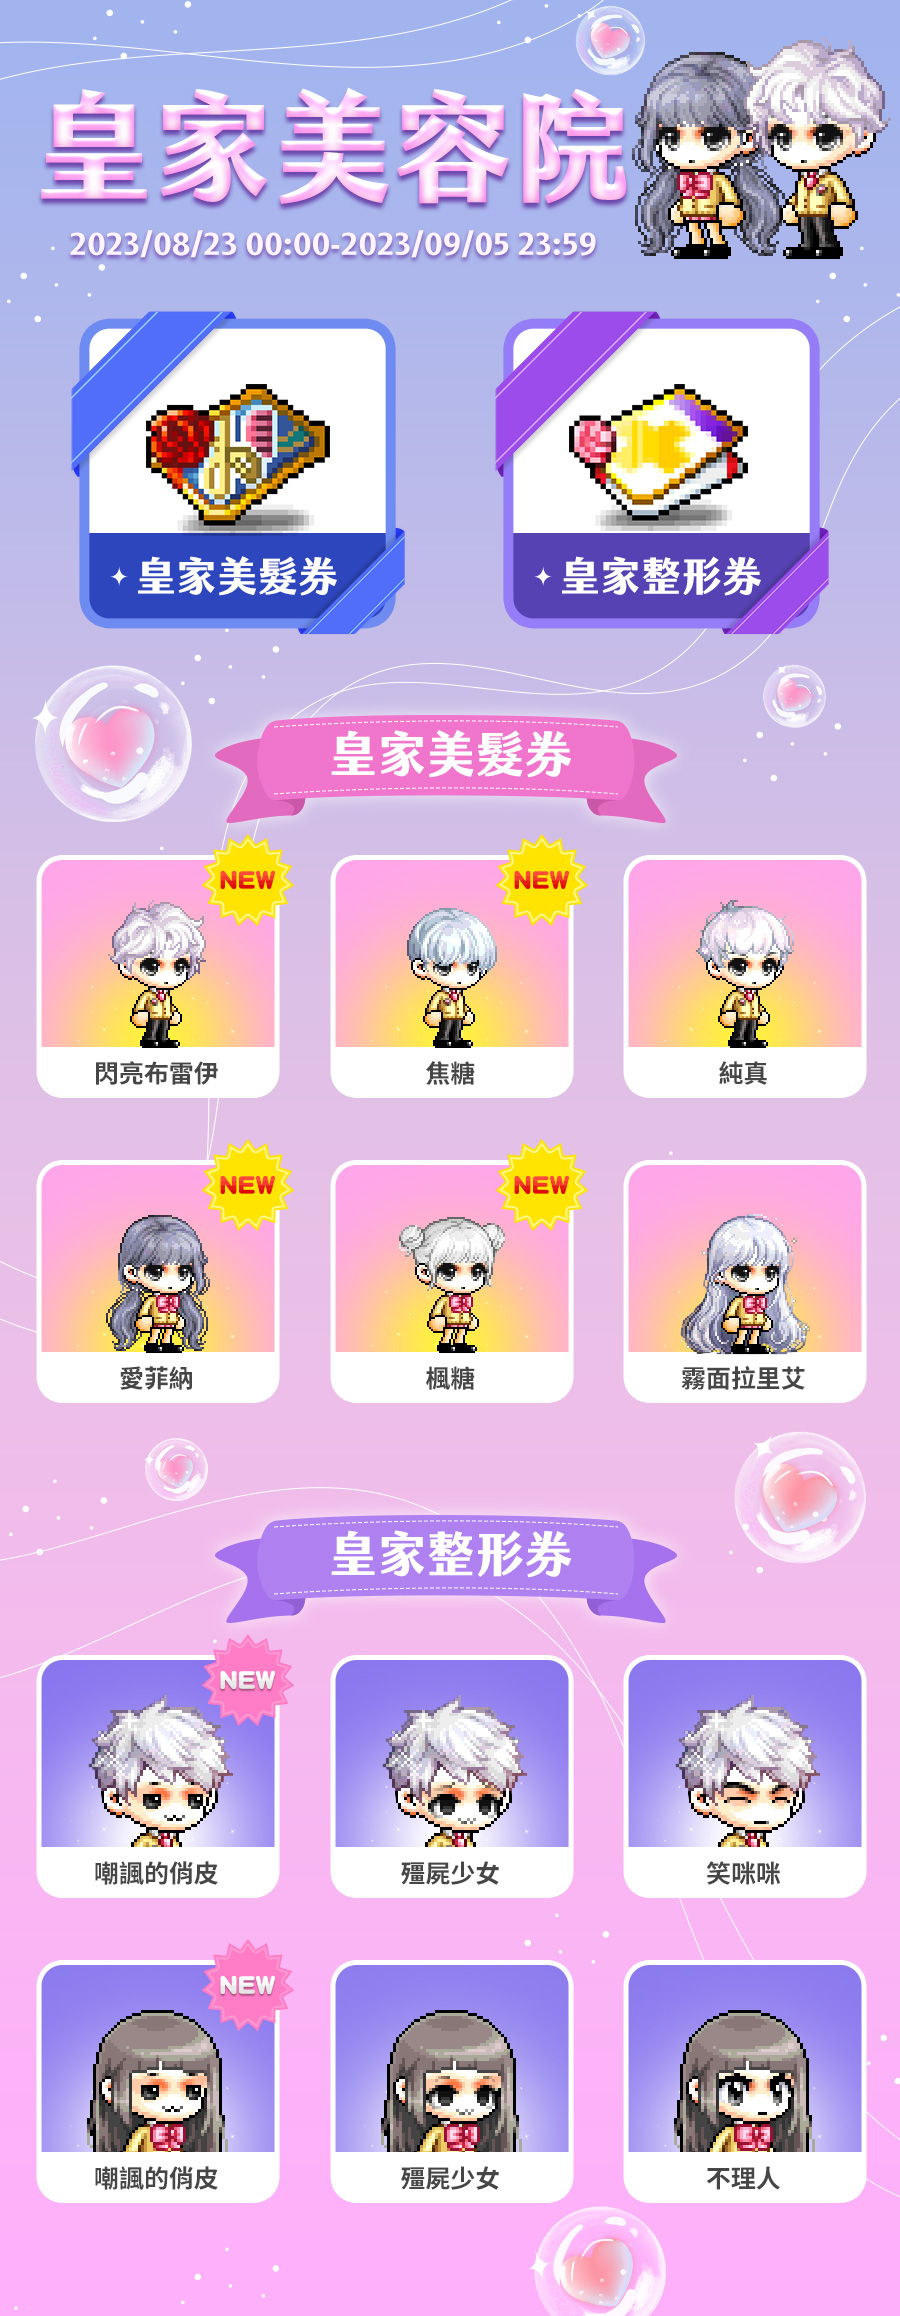
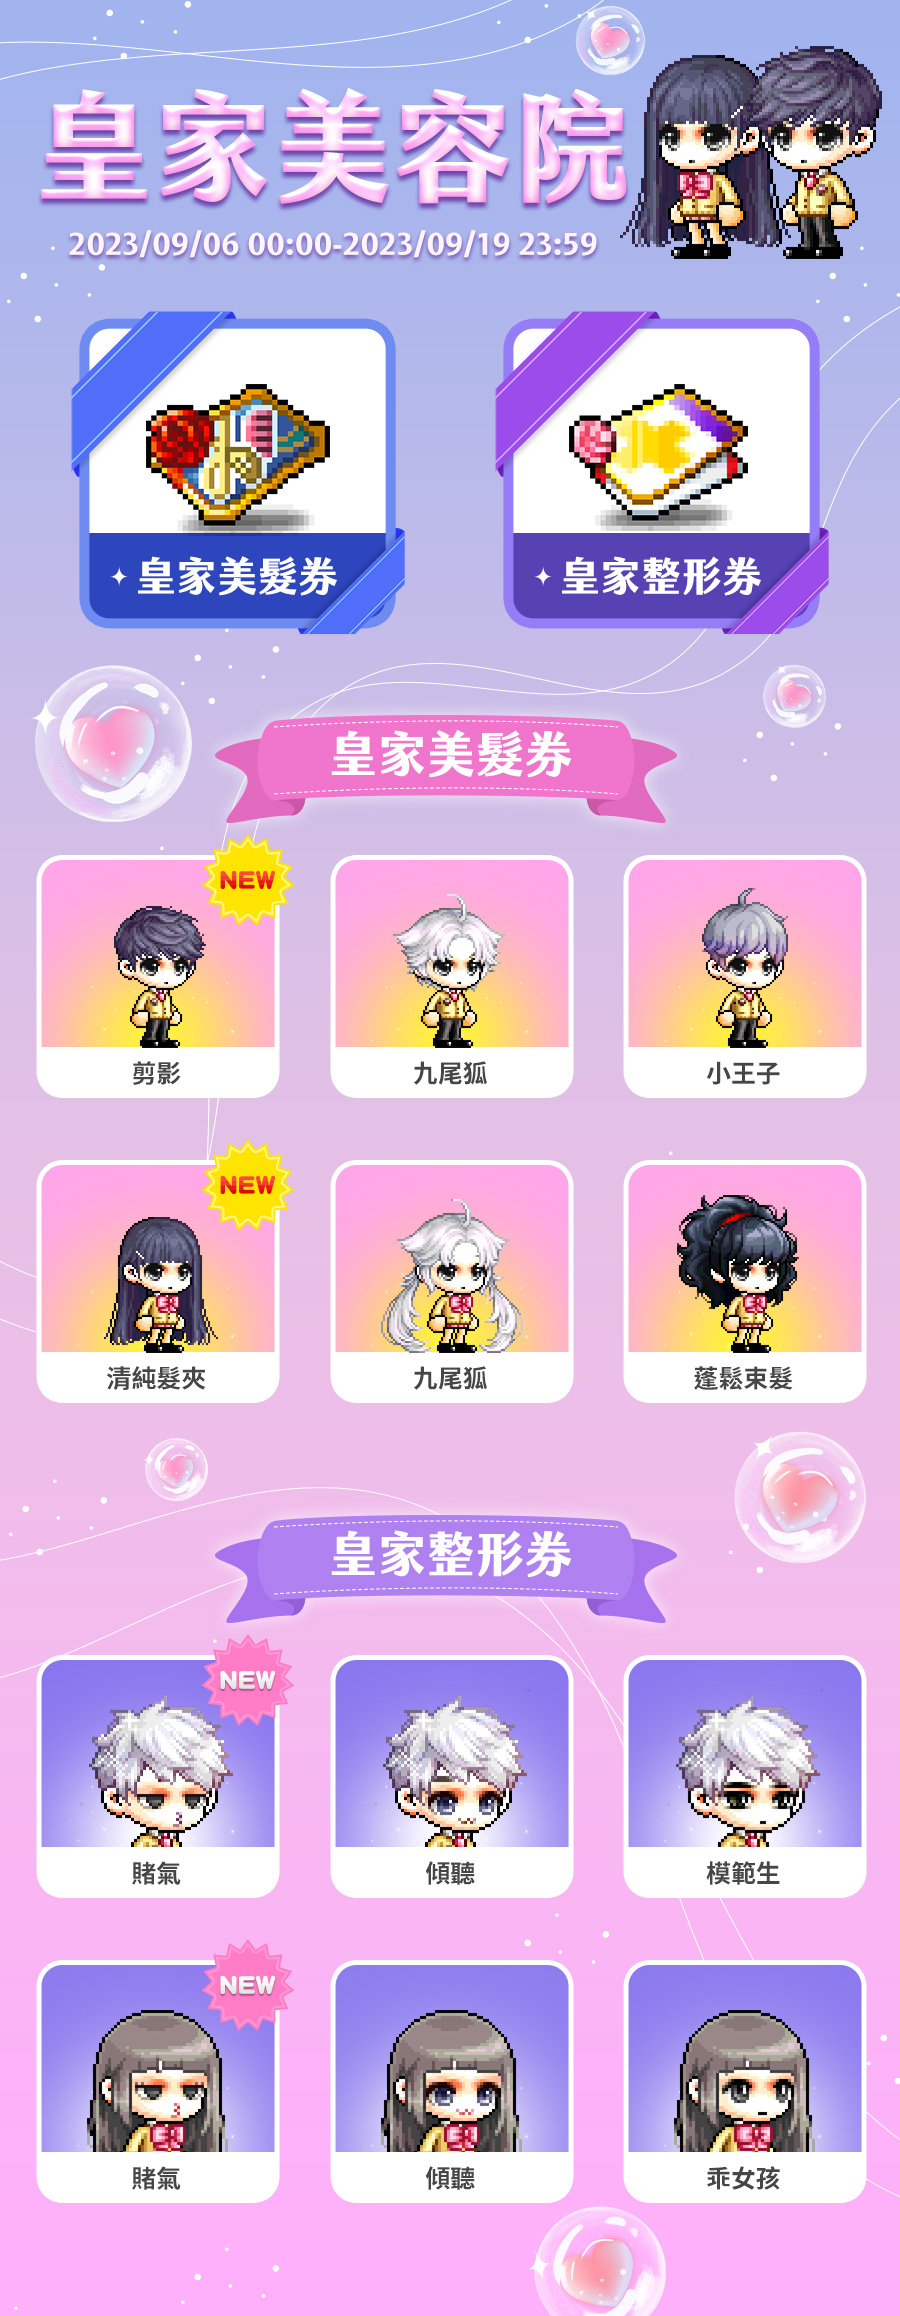
9/6 tms活動更新

diff --git a/src/components/MapleActivity/dressing.vue b/src/components/MapleActivity/dressing.vue
@@ -19,24 +19,60 @@ export default {
     <ul>
         <h1 class="dressingTitle">男生</h1>
         <li class="itemTitle"><span>主打美髮</span><span>機率</span></li>
-        <li><span>閃亮布雷伊髮型</span><span>1.00%</span></li>
-        <li><span>焦糖造型</span><span>1.00%</span></li>
-        <li><span>純真造型</span><span>1.00%</span></li>
+        <li><span>剪影髮型</span><span>1.50%</span></li>
+        <li><span>九尾狐髮型</span><span>1.50%</span></li>
+        <li><span>小王子髮型</span><span>6.00%</span></li>
+<li><span>黑色泡泡髮型</span><span>	6.00%</span></li>
+<li><span>黑色菁英西裝頭</span><span>	6.00%</span></li>
+<li><span>黑色潤澤耀眼造型</span><span>	6.00%</span></li>
+<li><span>黑色飛翹年輕造型</span><span>	6.00%</span></li>
+<li><span>黑色層次銀羽造型	</span><span>13.40%</span></li>
+<li><span>黑色泰斯造型	</span><span>13.40%</span></li>
+<li><span>黑色浪子小捲造型	</span><span>13.40%</span></li>
+<li><span>黑色蘋果小紮造型	</span><span>13.40%</span></li>
+<li><span>黑色狂野奔放造型	</span><span>13.40%</span></li>
         <li class="itemTitle"><span>主打整形</span><span>機率</span></li>
-        <li><span>嘲諷的俏皮臉型</span><span>2.50%</span></li>
-        <li><span>殭屍少女臉型	</span><span>2.50%</span></li>
-        <li><span>笑咪咪臉型</span><span>9.50%</span></li>                                
+<li><span>賭氣的臉型	</span><span>2.50%</span></li>
+<li><span>傾聽的臉型(黑色瞳)	</span><span>2.50%</span></li>
+<li><span>黑色模範生臉型	</span><span>9.50%</span></li>
+<li><span>黑色聰明的臉型	</span><span>9.50%</span></li>
+<li><span>黑色溫順的臉型	</span><span>9.50%</span></li>
+<li><span>黑色閃星光臉型	</span><span>9.50%</span></li>
+<li><span>黑色張望的臉型	</span><span>9.50%</span></li>
+<li><span>黑色染眉毛臉型	</span><span>9.50%</span></li>
+<li><span>黑色野心家臉型	</span><span>9.50%</span></li>
+<li><span>黑色勾魂眼臉型	</span><span>9.50%</span></li>
+<li><span>黑色很憂慮臉型	</span><span>9.50%</span></li>
+<li><span>黑色暗笑的臉型	</span><span>9.50%</span></li>
     </ul>
     <ul>
         <h1 class="dressingTitle">女生</h1>
         <li class="itemTitle"><span>主打美髮</span><span>機率</span></li>
-        <li><span>愛菲納髮型</span><span>1.00%</span></li>
-        <li><span>楓糖髮型</span><span>1.00%</span></li>
-        <li><span>霧面拉里艾髮型</span><span>1.00%</span></li>
+<li><span>黑色清純髮夾造型</span><span>	1.50%</span></li>
+<li><span>黑色九尾狐髮型</span><span>	1.50%</span></li>
+<li><span>黑色蓬鬆束髮造型</span><span>	6.00%</span></li>
+<li><span>黑色小櫻造型</span><span>	6.00%</span></li>
+<li><span>黑色繆斯女神造型</span><span>	6.00%</span></li>
+<li><span>黑色捲燙髮結造型</span><span>	6.00%</span></li>
+<li><span>黑色裴黎爾造型</span><span>	6.00%</span></li>
+<li><span>黑色幻影造型	</span><span>13.40%</span></li>
+<li><span>黑色波希米亞造型	</span><span>13.40%</span></li>
+<li><span>黑色濃密瀏海造型	</span><span>13.40%</span></li>
+<li><span>黑色俏麗輕盈造型	</span><span>13.40%</span></li>
+<li><span>黑色露娜造型	</span><span>13.40%</span></li>
         <li class="itemTitle"><span>主打整形</span><span>機率</span></li>
-        <li><span>嘲諷的俏皮臉型</span><span>2.50%</span></li>
-        <li><span>殭屍少女臉型</span><span>2.50%</span></li>
-        <li><span>不理人臉型</span><span>9.50%</span></li>   
+<li><span>賭氣的臉型	</span><span>2.50%</span></li>
+<li><span>傾聽的臉型(黑色瞳)	</span><span>2.50%</span></li>
+<li><span>黑色乖女孩臉型	</span><span>9.50%</span></li>
+<li><span>黑色扁嘴的臉型	</span><span>9.50%</span></li>
+<li><span>黑色寧靜的臉型	</span><span>9.50%</span></li>
+<li><span>黑色憂愁的臉型	</span><span>9.50%</span></li>
+<li><span>黑色粉紅眼影臉型	</span><span>9.50%</span></li>
+<li><span>黑色平靜的臉型	</span><span>9.50%</span></li>
+<li><span>黑色玻璃眼臉型	</span><span>9.50%</span></li>
+<li><span>黑色輕柔的臉型	</span><span>9.50%</span></li>
+<li><span>黑色上眼影臉型	</span><span>9.50%</span></li>
+<li><span>黑色瞭望的臉型	9</span><span>.50% </span></li>
     </ul>
     </div>
     </template>

diff --git a/src/components/MapleActivity/fashion.vue b/src/components/MapleActivity/fashion.vue
@@ -15,32 +15,26 @@ export default {
     </div>
     <div class="ProbabilityTable">
         <ul>
-            <h1 class="fashionTitle">魔法修練生</h1>
+            <h1 class="fashionTitle">閃亮銀河音樂會</h1>
             <li class="itemTitle"><span>項目</span><span>機率</span></li>
-
-<li><span>魔法修練生光環(A型)</span><span>0.60%</span></li>
-<li><span>魔法修練生光環(B型)</span><span>0.60%</span></li>
-<li><span>魔法修練生的校服(A型)</span><span>0.50%</span></li>
-<li><span>魔法修練生的校服(B型)</span><span>0.50%</span></li>
-<li><span>充滿魔力的神祕腳鏈</span><span>0.60%</span></li>
-<li><span>蘊含魔力的神祕蝴蝶結腳鏈</span><span>0.60%</span></li>
-<li><span>擁有魔力的證明</span><span>0.70%</span></li>
-<li><span>魔法修練生的法杖</span><span>0.50%</span></li>
+<li><span>閃亮銀河</span><span>	0.90%</span></li>
+<li><span>銀河極光</span><span>	0.90%</span></li>
+<li><span>銀河之歌(男)</span><span>	0.80%</span></li>
+<li><span>銀河之曲(女)   </span><span> 0.80%</span></li>
+<li><span>銀河音樂會</span><span>	0.90%</span></li>
+<li><span>漫步銀河(男)</span><span>	1.10%</span></li>
+<li><span>滑行銀河(女)   </span><span> 1.10%</span></li>
+<li><span>銀河迴音</span><span>	0.80%</span></li>
         </ul>
         <ul>
-            <h1 class="fashionTitle">祕密基地學生</h1>
+            <h1 class="fashionTitle">閃亮宇宙探險隊</h1>
             <li class="itemTitle"><span>項目</span><span>機率</span></li>
-<li><span>祕密基地學生貝雷帽</span><span>0.70%</span></li>
-<li><span>祕密基地學生髮箍</span><span>0.70%</span></li>
-<li><span>祕密基地男校服</span><span>0.60%</span></li>
-<li><span>祕密基地女校服</span><span>0.60%</span></li>
-<li><span>祕密基地學生運動鞋</span><span>0.70%</span></li>
-<li><span>秘密基地皮卡啾徽章</span><span>0.70%</span></li>
-<li><span>秘密基地防身用鞋子</span><span>0.50%</span></li>
-<li><span>楓之谷學院名牌戒指(A)</span><span>0.70%</span></li>
-<li><span>楓之谷學院聊天戒指(A)</span><span>0.70%</span></li>
-<li><span>楓之谷學院名牌戒指(B)</span><span>0.70%</span></li>
-<li><span>楓之谷學院聊天戒指(B)</span><span>0.70%</span></li>
+<li><span>閃耀天線	</span><span>1.00%</span></li>
+<li><span>閃耀宇宙探險家(男)	</span><span>0.90%</span></li>
+<li><span>閃耀宇宙探索者(女)  </span><span>0.90%</span></li>
+<li><span>閃耀星座	</span><span>1.00%</span></li>
+<li><span>閃耀著陸	</span><span>1.30%</span></li>
+<li><span>閃耀UFO	</span><span>0.90%</span></li>
         </ul>
 </div>
                         

diff --git a/src/components/MapleActivityBox.vue b/src/components/MapleActivityBox.vue
@@ -79,13 +79,13 @@ export default {
                 {idx:6 ,  zoomIn:false , key:"魔法畫框" ,class: "frameTag" , url: `${ActivityImgArr[6].icon}`, act: false,show: false },
                 {idx:7 ,  zoomIn:false , key:"潘朵拉箱子" ,class: "pandoraTag" , url: `${ActivityImgArr[7].icon}`, act: false,show: false },
                 {idx:8 ,  zoomIn:false , key:"月光水晶" ,class: "crystalTag" , url: `${ActivityImgArr[8].icon}`, act: false,show: false },
-                {idx:9 ,  zoomIn:false , key:"愛美組合包" ,class: "beautyTag" , url: `${ActivityImgArr[9].icon}`, act: false,show: true },
+                {idx:9 ,  zoomIn:false , key:"愛美組合包" ,class: "beautyTag" , url: `${ActivityImgArr[9].icon}`, act: false,show: false },
                 {idx:10 , zoomIn:false ,  key:"星光錦囊" ,class: "starTag" , url: `${ActivityImgArr[10].icon}`, act: false,show: false },
                 {idx:11 , zoomIn:false ,  key:"結合方塊" ,class: "combineTag" , url: `${ActivityImgArr[11].icon}`, act: false,show: false },
                 {idx:12 , zoomIn:false ,  key:"時裝套組" ,class: "frameSetTag" , url: `${ActivityImgArr[12].icon}`, act: false,show: false },
                 {idx:13 , zoomIn:false ,  key:"覺醒星火" ,class: "sparkTag" , url: `${ActivityImgArr[13].icon}`, act: false,show: false },
-                {idx:14 , zoomIn:false ,  key:"盛夏購物季" ,class: "consumptionTag" , url: `${ActivityImgArr[14].icon}`, act: false,show: true },
-                {idx:15 , zoomIn:true ,  key:"恢復附加方塊" ,class: "recoverTag" , url: `${ActivityImgArr[15].icon}`, act: false,show: true },
+                {idx:14 , zoomIn:false ,  key:"咖波in楓之谷" ,class: "consumptionTag" , url: `${ActivityImgArr[14].icon}`, act: false,show: true },
+                {idx:15 , zoomIn:true ,  key:"恢復附加方塊" ,class: "recoverTag" , url: `${ActivityImgArr[15].icon}`, act: false,show: false },
             ])
             const ActivitySelected = ref([{key:"黃金蘋果", bannerUrl: `${ActivityImgArr[0].banner}`,bannerZoomIn: false}] )
 
@@ -239,7 +239,7 @@ export default {
             </div>
             <div class="Activitydate">
                 <span class="title">最後更新日期</span>
-                <span class="txt">2023.08.24</span>
+                <span class="txt">2023.09.08</span>
             </div>  
 </div>   
 </template>
@@ -707,6 +707,15 @@ export default {
     }
 
   }    
+  .mapleActivity{
+    // border-radius: 0;
+    width: 100vw;
+    // height: 100vh;
+  }  
+  .Activitydate{
+    width: 100vw;
+    bottom: 3vh;
+  }
 }
 
 </style>

diff --git a/src/components/MapleActivity/cuteMos.vue b/src/components/MapleActivity/cuteMos.vue
@@ -6,11 +6,12 @@
                             <div class="ProbabilityTable">
                             <ul>
                                 <li class="itemTitle"><span>重點項目</span><span>機率</span></li>
-<li><span>萊頓</span>	<span>1.00%</span></li>
-<li><span>史頓畢</span>	<span>1.00%</span></li>
-<li><span>庫派德</span>	<span>1.00%</span></li>
-<li><span>達朗紐</span>	<span>1.00%</span></li>
-<li><span>龍人</span>	<span>0.50%</span></li>
+<li><span>害羞的幽靈</span><span>	1.00%</span></li>
+<li><span>想長大的幽靈</span><span>	1.00%</span></li>
+<li><span>有點生氣的幽靈</span><span>	1.00%</span></li>
+<li><span>大塊頭幽靈</span><span>	1.00%</span></li>
+<li><span>生氣的幽靈</span><span>	0.50%</span></li>
+<li><span>長大的幽靈</span><span>	0.50%</span></li>
                             </ul>
                             </div>
 </template>

diff --git a/src/components/MapleActivity/goldApple.vue b/src/components/MapleActivity/goldApple.vue
@@ -21,14 +21,14 @@ export default {
              <span>金箱子機率</span>
          </li>
          <li class="appleItem">
-             <span>凝聚的戒指交換券</span>
-             <span>0.3%</span>
-             <span>14%</span>
+             <span>露希妲耳環交換券</span>
+             <span>0.5%</span>
+             <span>3%</span>
          </li>
          <li class="appleItem">
-             <span>堅定意志成果椅子交換劵</span>
+             <span>死神的項鍊</span>
              <span>0.5%</span>
-             <span>6%</span>
+             <span>3%</span>
          </li>
      </ul>
      </div>

diff --git a/src/components/MapleActivity/pet.vue b/src/components/MapleActivity/pet.vue
@@ -6,9 +6,9 @@
     <div class="ProbabilityTable">
     <ul>
         <li class="itemTitle"><span>重點項目</span><span>機率</span></li>
-        <li><span>可愛混沌寵物</span><span>0.70%</span></li>
-        <li><span>可愛窮奇寵物</span><span>0.70%</span></li>
-        <li><span>可愛檮杌寵物</span><span>0.70%</span></li>
+        <li><span>萌寵小貓咪</span><span>0.70%</span></li>
+        <li><span>萌寵鸚鵡</span><span>0.70%</span></li>
+        <li><span>萌寵小狗</span><span>0.70%</span></li>
     </ul>
     </div>
 </template>

diff --git a/src/router/index.js b/src/router/index.js
@@ -54,6 +54,10 @@ const routes = [
           title: "聊天模擬器",
           metaTags: [
             {
+              property: 'og:type',
+              content: 'website'
+            },
+            {
               property: 'og:title',
               content: '聊天模擬器'
             },
